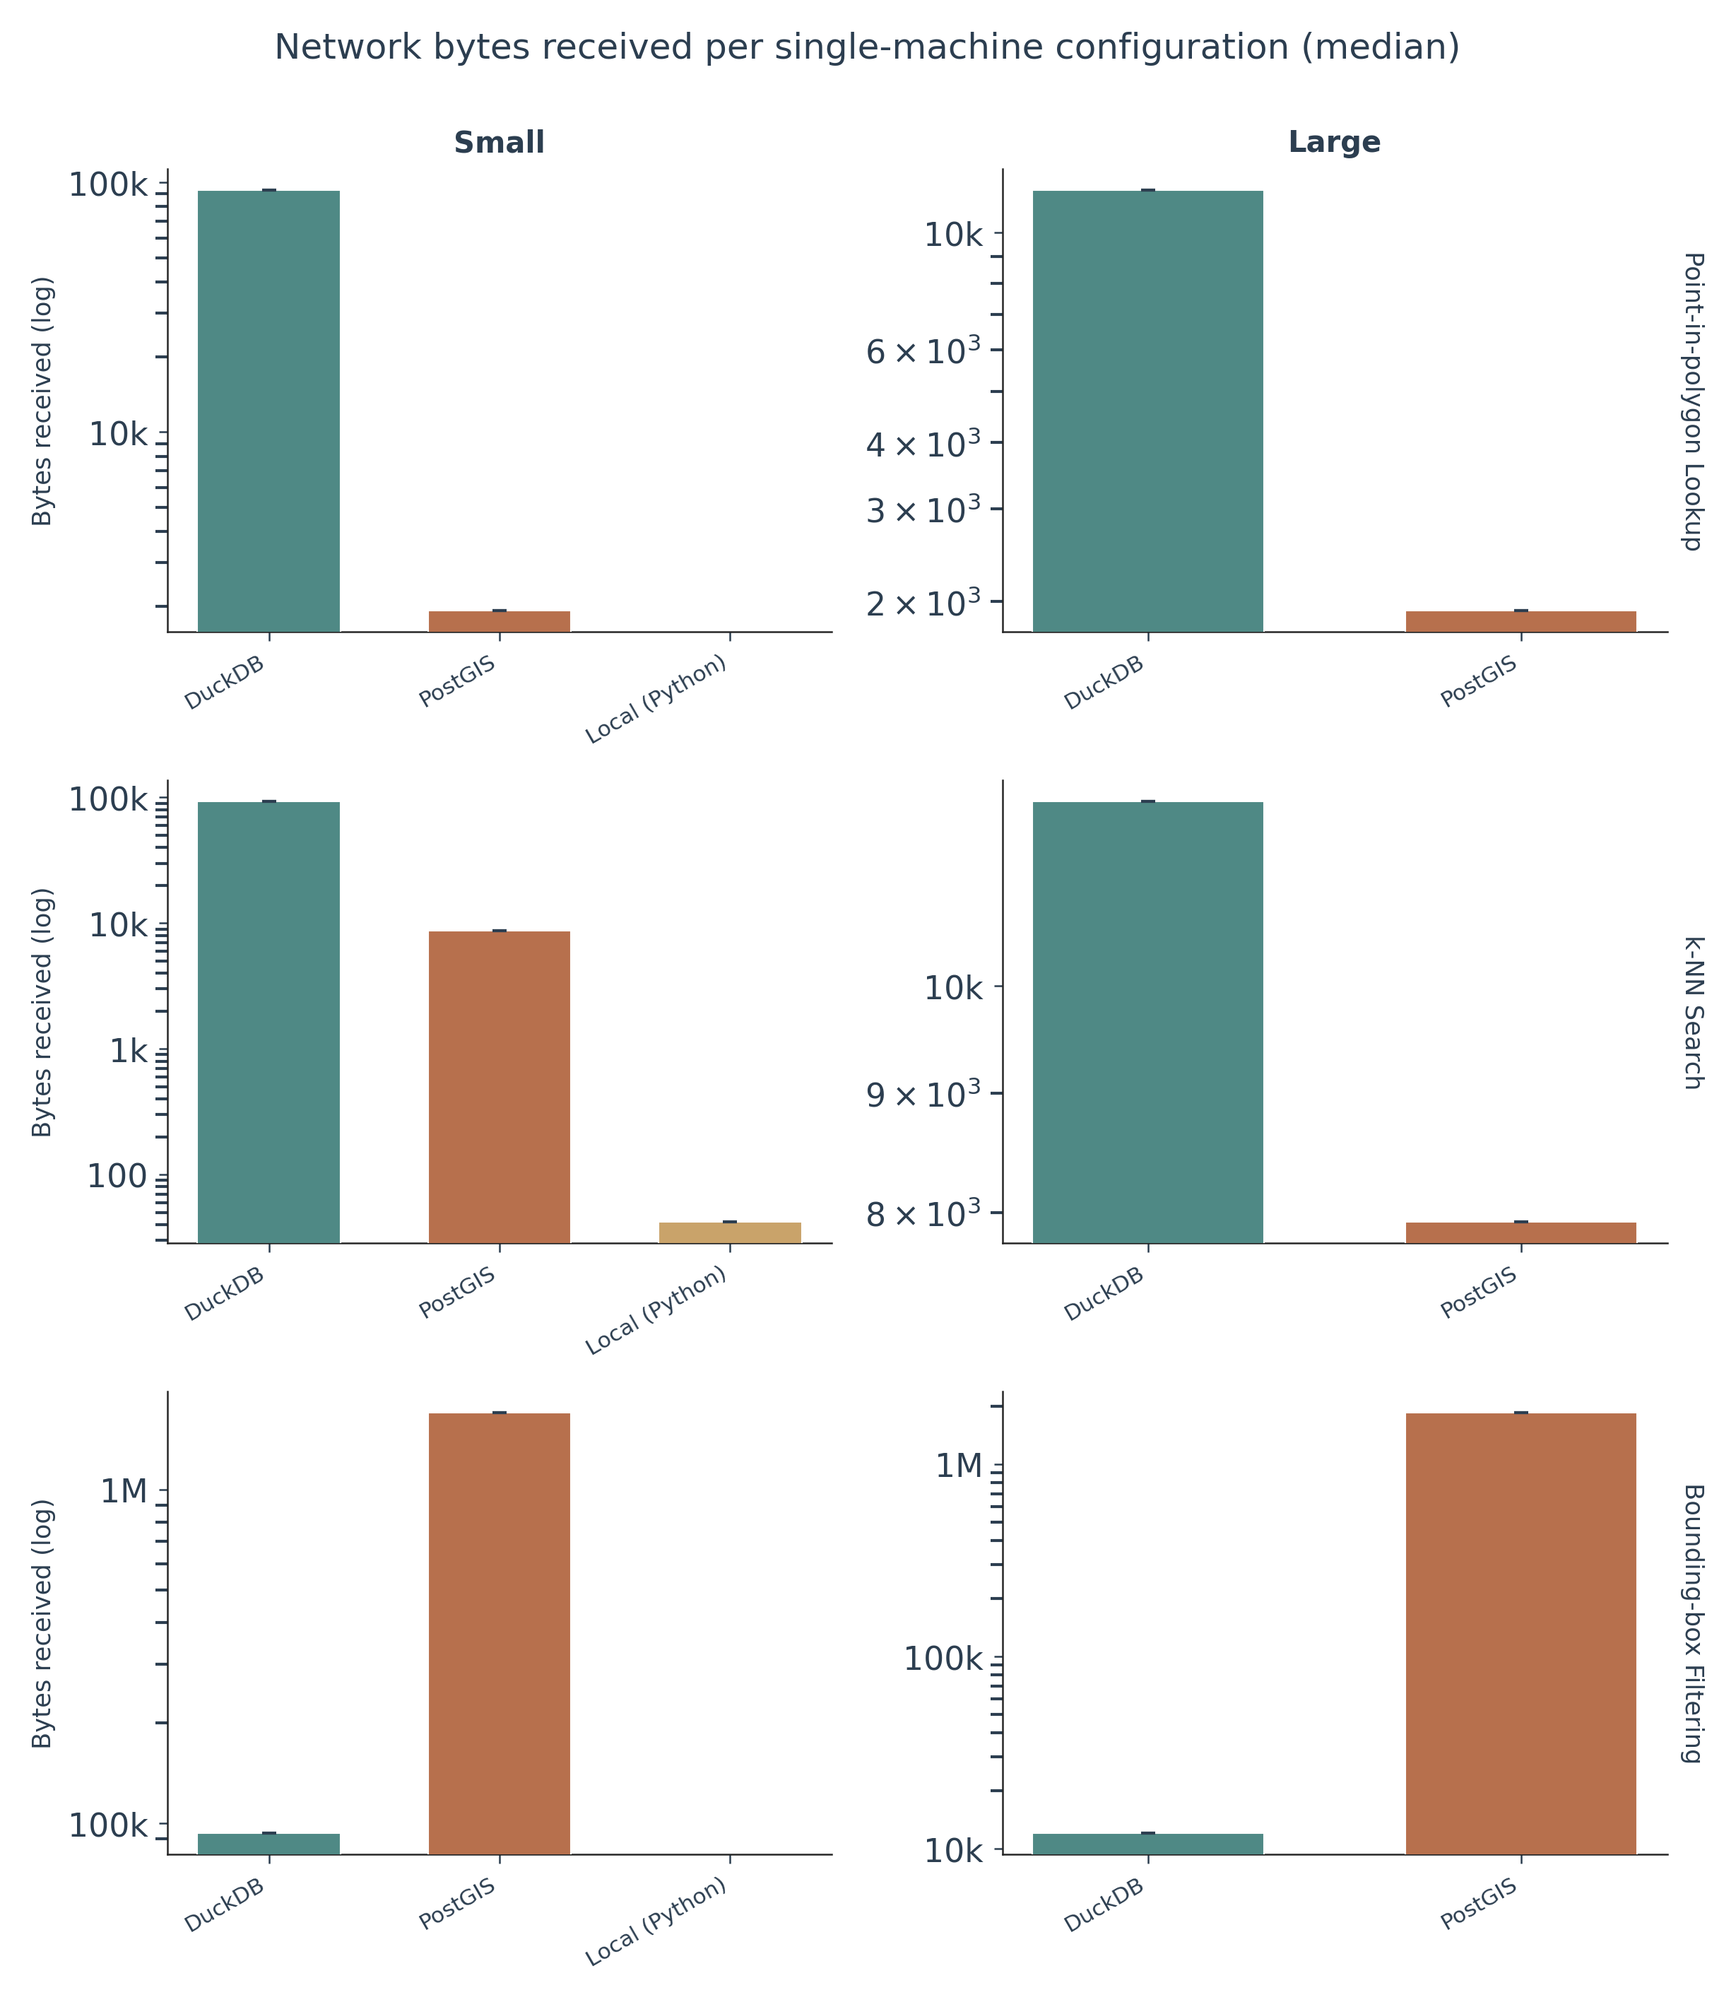
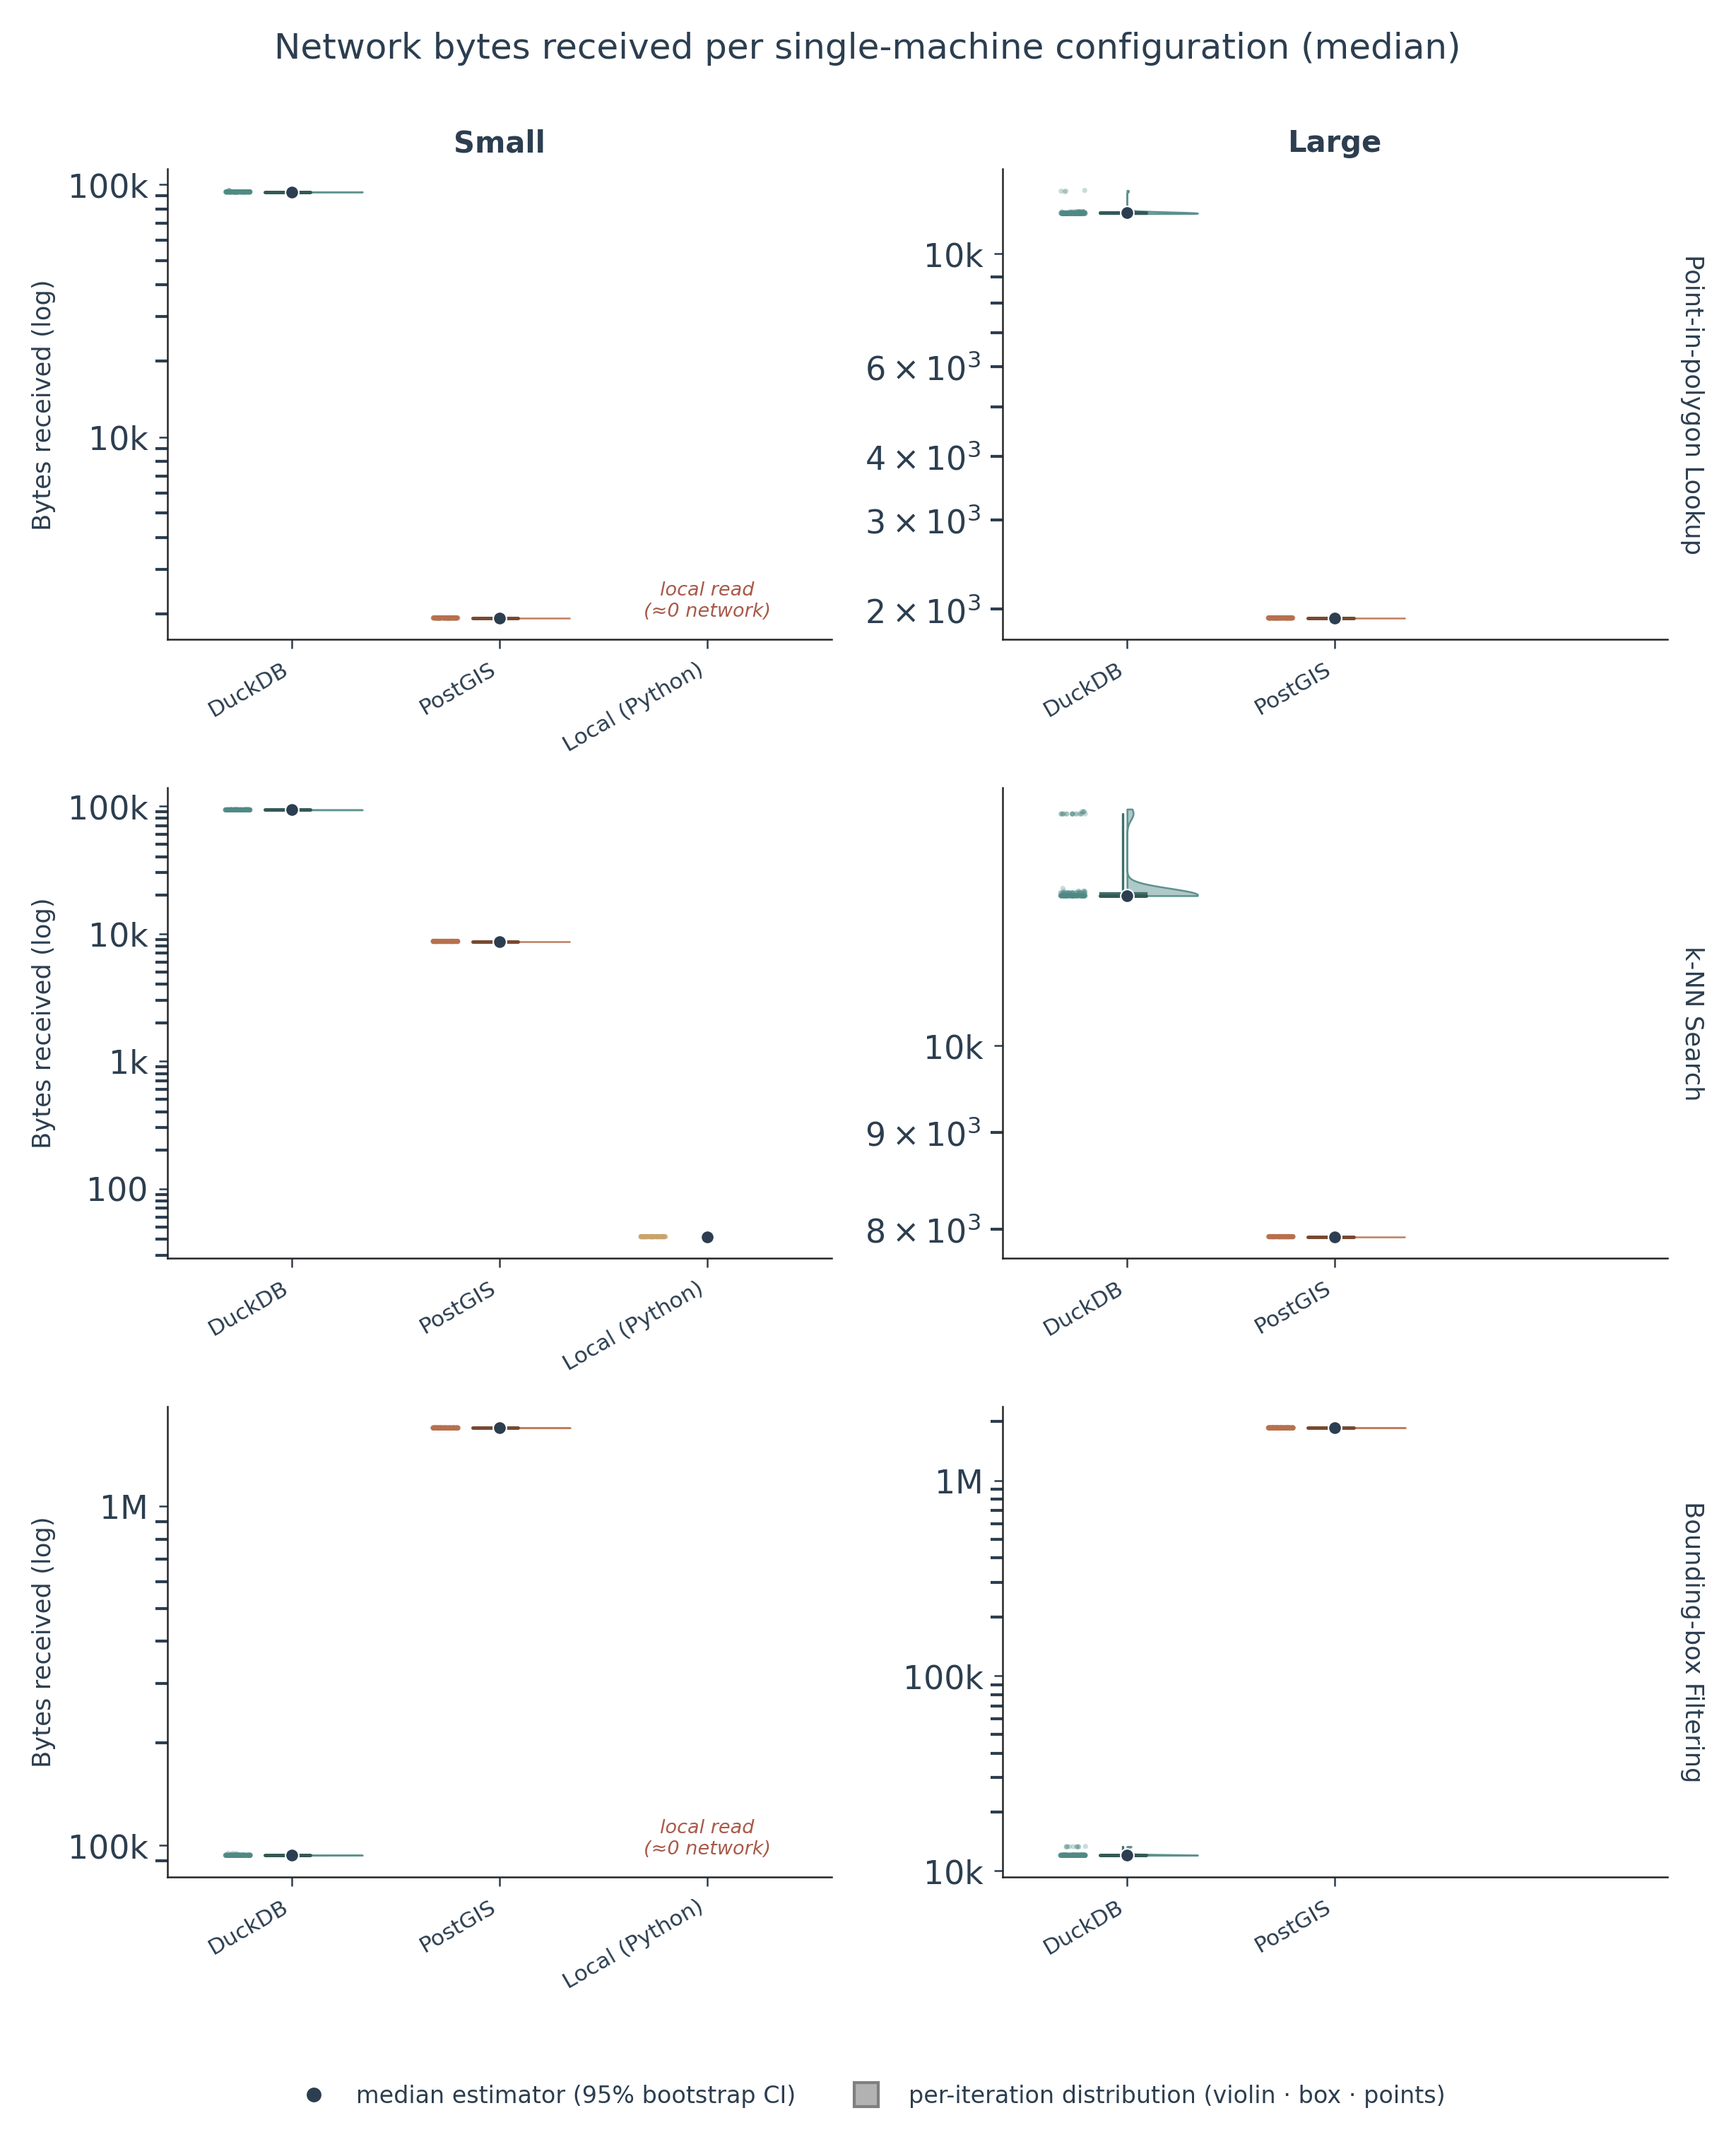
Make RQ1 results figures distributional; add ECDF and parallel-coordinates floats
Replace the bar+whisker time and bytes grids with raincloud (violin + box +
jittered points) views so the body shows distribution shape and supports the
estimator justification: the time grid marks the minimum estimator and its 95%
bootstrap CI per configuration, the bytes grid the median and CI. Captions
rewritten to match (labels, include paths, and placement unchanged); the bytes
caption now correctly states it shows network bytes received.

Add two new floats with %TODO prose placeholders:
- ECDF of per-iteration elapsed time for the headline cell (point-in-polygon,
  small), p50/p95/p99 marked per configuration, in the RQ1 wall-clock section.
- Parallel-coordinates of per-system outcomes (time, bytes, cost, mean rank),
  exposing inversions in one frame, in the RQ3 winners section.

diff --git a/Chapters/06-results/sub-chapters/02-single-machine-query-performance.tex b/Chapters/06-results/sub-chapters/02-single-machine-query-performance.tex
@@ -24,27 +24,31 @@
 
 \begin{figure}[H]
     \centering
-    % WHAT IT SHOWS: bytes-transferred grid. Rows = workload pattern, columns =
-    %   size tier. Within each cell, grouped bars per configuration on a
-    %   logarithmic y-axis with bootstrap confidence-interval whiskers. Bytes
-    %   received and bytes sent shown separately (two grids or two panels).
-    % CAPTION MUST STATE: the grid layout (pattern x tier); log y-axis; that
-    %   whiskers are bootstrap CIs; that received and sent are separated; the
-    %   estimator (median for transfer metrics, per the methodology).
+    % WHAT IT SHOWS: bytes-received distributional grid. Rows = workload pattern,
+    %   columns = size tier. Within each cell, one raincloud per configuration
+    %   (half-violin + box + jittered sample of the per-iteration measurements) on
+    %   a logarithmic y-axis, with the median estimator and its 95% bootstrap CI
+    %   marked on each.
+    % CAPTION MUST STATE: the grid layout (pattern x tier); log y-axis; that the
+    %   body is a distributional (raincloud) view; that the marked point is the
+    %   median estimator (for transfer metrics, per the methodology) with a 95%
+    %   bootstrap CI; that only bytes RECEIVED are shown.
     % ANNOTATE: Shapefile is read from the LOCAL filesystem, so its network bytes
-    %   are ~0; label this explicitly so the near-zero bar is not misread as a
+    %   are ~0; label this explicitly so the near-zero cell is not misread as a
     %   missing cell. Leave the Shapefile-beyond-small and kNN-large slots as
     %   did-not-run-by-design.
-    % DESCRIPTIVE ONLY: report the bars; no interpretation (-> Discussion).
+    % DESCRIPTIVE ONLY: report the distributions; no interpretation (-> Discussion).
     \includegraphics[width=0.95\textwidth]{Chapters/06-results/sub-chapters/figures/06-single-machine-bytes-transferred.png}
-    \caption[Data transferred per single-machine configuration]{Bytes transferred
-    by each single-machine configuration, arranged as a grid with workload
-    patterns in rows and size tiers in columns. Within each cell, bars give the
-    per-configuration volume on a logarithmic axis with bootstrap
-    confidence-interval whiskers; bytes received and bytes sent are shown
-    separately. The Shapefile configuration reads from the local filesystem, so
-    its network transfer is approximately zero and is labelled as such rather than
-    left blank. Bar colour encodes configuration using the thesis palette.}
+    \caption[Data transferred per single-machine configuration]{Network bytes
+    received by each single-machine configuration, arranged as a grid with workload
+    patterns in rows and size tiers in columns. Within each cell, every
+    configuration is drawn as a raincloud -- a half-violin, box, and jittered sample
+    of the per-iteration measurements -- so the full distribution shape is visible
+    on a logarithmic axis; the median estimator used for transfer metrics and its
+    \num{95}\% bootstrap confidence interval are marked on each. The Shapefile
+    configuration reads from the local filesystem, so its network transfer is
+    approximately zero and is labelled as such rather than left blank. Colour
+    encodes configuration using the thesis palette.}
     \label{fig:single-machine-bytes-transferred}
 \end{figure}
 
@@ -72,22 +76,52 @@
 
 \begin{figure}[H]
     \centering
-    % WHAT IT SHOWS: wall-clock-time grid, SAME layout as the bytes grid
-    %   (Figure~\ref{fig:single-machine-bytes-transferred}): rows = pattern,
-    %   columns = tier, grouped bars per configuration, logarithmic y-axis,
-    %   bootstrap confidence-interval whiskers.
-    % CAPTION MUST STATE: the grid layout; that the bar height is the MINIMUM
-    %   estimator (per the methodology); log y-axis; bootstrap CI whiskers.
+    % WHAT IT SHOWS: wall-clock-time distributional grid, SAME layout as the bytes
+    %   grid (Figure~\ref{fig:single-machine-bytes-transferred}): rows = pattern,
+    %   columns = tier, one raincloud per configuration (half-violin + box +
+    %   jittered per-iteration sample), logarithmic y-axis, with the MINIMUM
+    %   estimator and its 95% bootstrap CI marked on each.
+    % CAPTION MUST STATE: the grid layout; that the body is a distributional
+    %   (raincloud) view; that the marked point is the MINIMUM estimator (per the
+    %   methodology) with a 95% bootstrap CI; log y-axis.
     % Leave the Shapefile-beyond-small and kNN-large slots as did-not-run-by-design.
-    % DESCRIPTIVE ONLY: report the bars; no interpretation (-> Discussion).
+    % DESCRIPTIVE ONLY: report the distributions; no interpretation (-> Discussion).
     \includegraphics[width=0.95\textwidth]{Chapters/06-results/sub-chapters/figures/06-single-machine-wall-clock-time.png}
     \caption[Wall-clock time per single-machine configuration]{Wall-clock time of
     each single-machine configuration, in the same grid layout as the
     bytes-transferred figure: workload patterns in rows, size tiers in columns.
-    Bar height is the minimum-estimator elapsed time on a logarithmic axis with
-    bootstrap confidence-interval whiskers. Bar colour encodes configuration using
-    the thesis palette.}
+    Within each cell, every configuration is drawn as a raincloud -- a half-violin,
+    box, and jittered sample of the per-iteration elapsed times -- so the full
+    distribution shape and its upper tail are visible on a logarithmic axis; the
+    minimum estimator and its \num{95}\% bootstrap confidence interval are marked on
+    each. Colour encodes configuration using the thesis palette.}
     \label{fig:single-machine-wall-clock-time}
+\end{figure}
+
+% TODO (prose): factual readout only of the latency-tail behaviour for the headline
+% cell -- the median-to-tail spread per configuration ($p_{50}$ vs.\ $p_{95}$/$p_{99}$)
+% and how the tails compare across configurations. Refer to
+% Figure~\ref{fig:single-machine-latency-ecdf}. No interpretation (-> Discussion).
+
+\begin{figure}[H]
+    \centering
+    % WHAT IT SHOWS: empirical CDF of per-iteration elapsed time for one headline
+    %   cell (point-in-polygon lookup, small tier -- the one cell where all three
+    %   single-machine configurations ran), one step curve per configuration on a
+    %   logarithmic time axis, with the p50/p95/p99 percentiles marked on each curve.
+    % CAPTION MUST STATE: that x is per-iteration elapsed time (log); that each curve
+    %   is one configuration's empirical CDF; that p50/p95/p99 are marked; and the
+    %   single workload x tier shown.
+    % DESCRIPTIVE ONLY: report the curves and the tail spread; no interpretation.
+    \includegraphics[width=0.8\textwidth]{Chapters/06-results/sub-chapters/figures/06-single-machine-latency-ecdf.png}
+    \caption[Latency distribution for the headline single-machine cell]{Empirical
+    cumulative distribution of per-iteration elapsed time for the point-in-polygon
+    lookup at the small tier, with one step curve per single-machine configuration on
+    a logarithmic time axis. The median ($p_{50}$), $p_{95}$, and $p_{99}$ percentiles
+    are marked on each curve, making the spread between the median and the upper tail
+    directly comparable across configurations. Colour encodes configuration using the
+    thesis palette.}
+    \label{fig:single-machine-latency-ecdf}
 \end{figure}
 
 \subsection{Operational cost}

diff --git a/Chapters/06-results/sub-chapters/04-consistency-of-winners.tex b/Chapters/06-results/sub-chapters/04-consistency-of-winners.tex
@@ -38,6 +38,36 @@
     \label{fig:winners-matrix}
 \end{figure}
 
+% TODO (prose): factual readout only -- trace each system's polyline across the four
+% outcome axes and name where polylines cross (outcome inversions). Refer to
+% Figure~\ref{fig:outcome-parallel-coordinates}. No interpretation (-> Discussion).
+
+\begin{figure}[H]
+    \centering
+    % WHAT IT SHOWS: parallel-coordinates plot. One polyline per system family
+    %   (DuckDB, PostGIS, GeoPandas+Shapefile, Sedona) across four outcome axes --
+    %   wall-clock time, bytes, operational cost, and mean rank. Each axis is scaled
+    %   independently with the best (lowest) value at the bottom; lines that cross
+    %   between axes are outcome inversions, surfaced in a single frame.
+    % CAPTION MUST STATE: that each polyline is one system; the four outcome axes;
+    %   that the time/bytes/cost axes use the geometric-mean normalized values of
+    %   Table~\ref{tab:geomean-normalized-performance}; that axes are independently
+    %   scaled (best at bottom) with their real extremes annotated; that crossings
+    %   denote inversions.
+    % DESCRIPTIVE ONLY: report the crossings; no interpretation (-> Discussion).
+    \includegraphics[width=0.9\textwidth]{Chapters/06-results/sub-chapters/figures/06-outcome-parallel-coordinates.png}
+    \caption[Per-system outcomes across dimensions]{Per-system outcomes across the
+    four outcome dimensions -- wall-clock time, bytes transferred, operational cost,
+    and mean rank -- drawn as a parallel-coordinates plot with one polyline per
+    system. The time, bytes, and cost axes use the geometric-mean normalized values
+    of Table~\ref{tab:geomean-normalized-performance}; each axis is scaled
+    independently with the best (lowest) value at the bottom and its real extremes
+    annotated. Polylines that cross between axes mark outcome inversions, where a
+    system that leads on one dimension trails on another. Colour encodes the system
+    using the thesis palette.}
+    \label{fig:outcome-parallel-coordinates}
+\end{figure}
+
 \subsection{Aggregate normalized performance}
 \label{results:consistency-of-winners:aggregate-normalized-performance}
 
